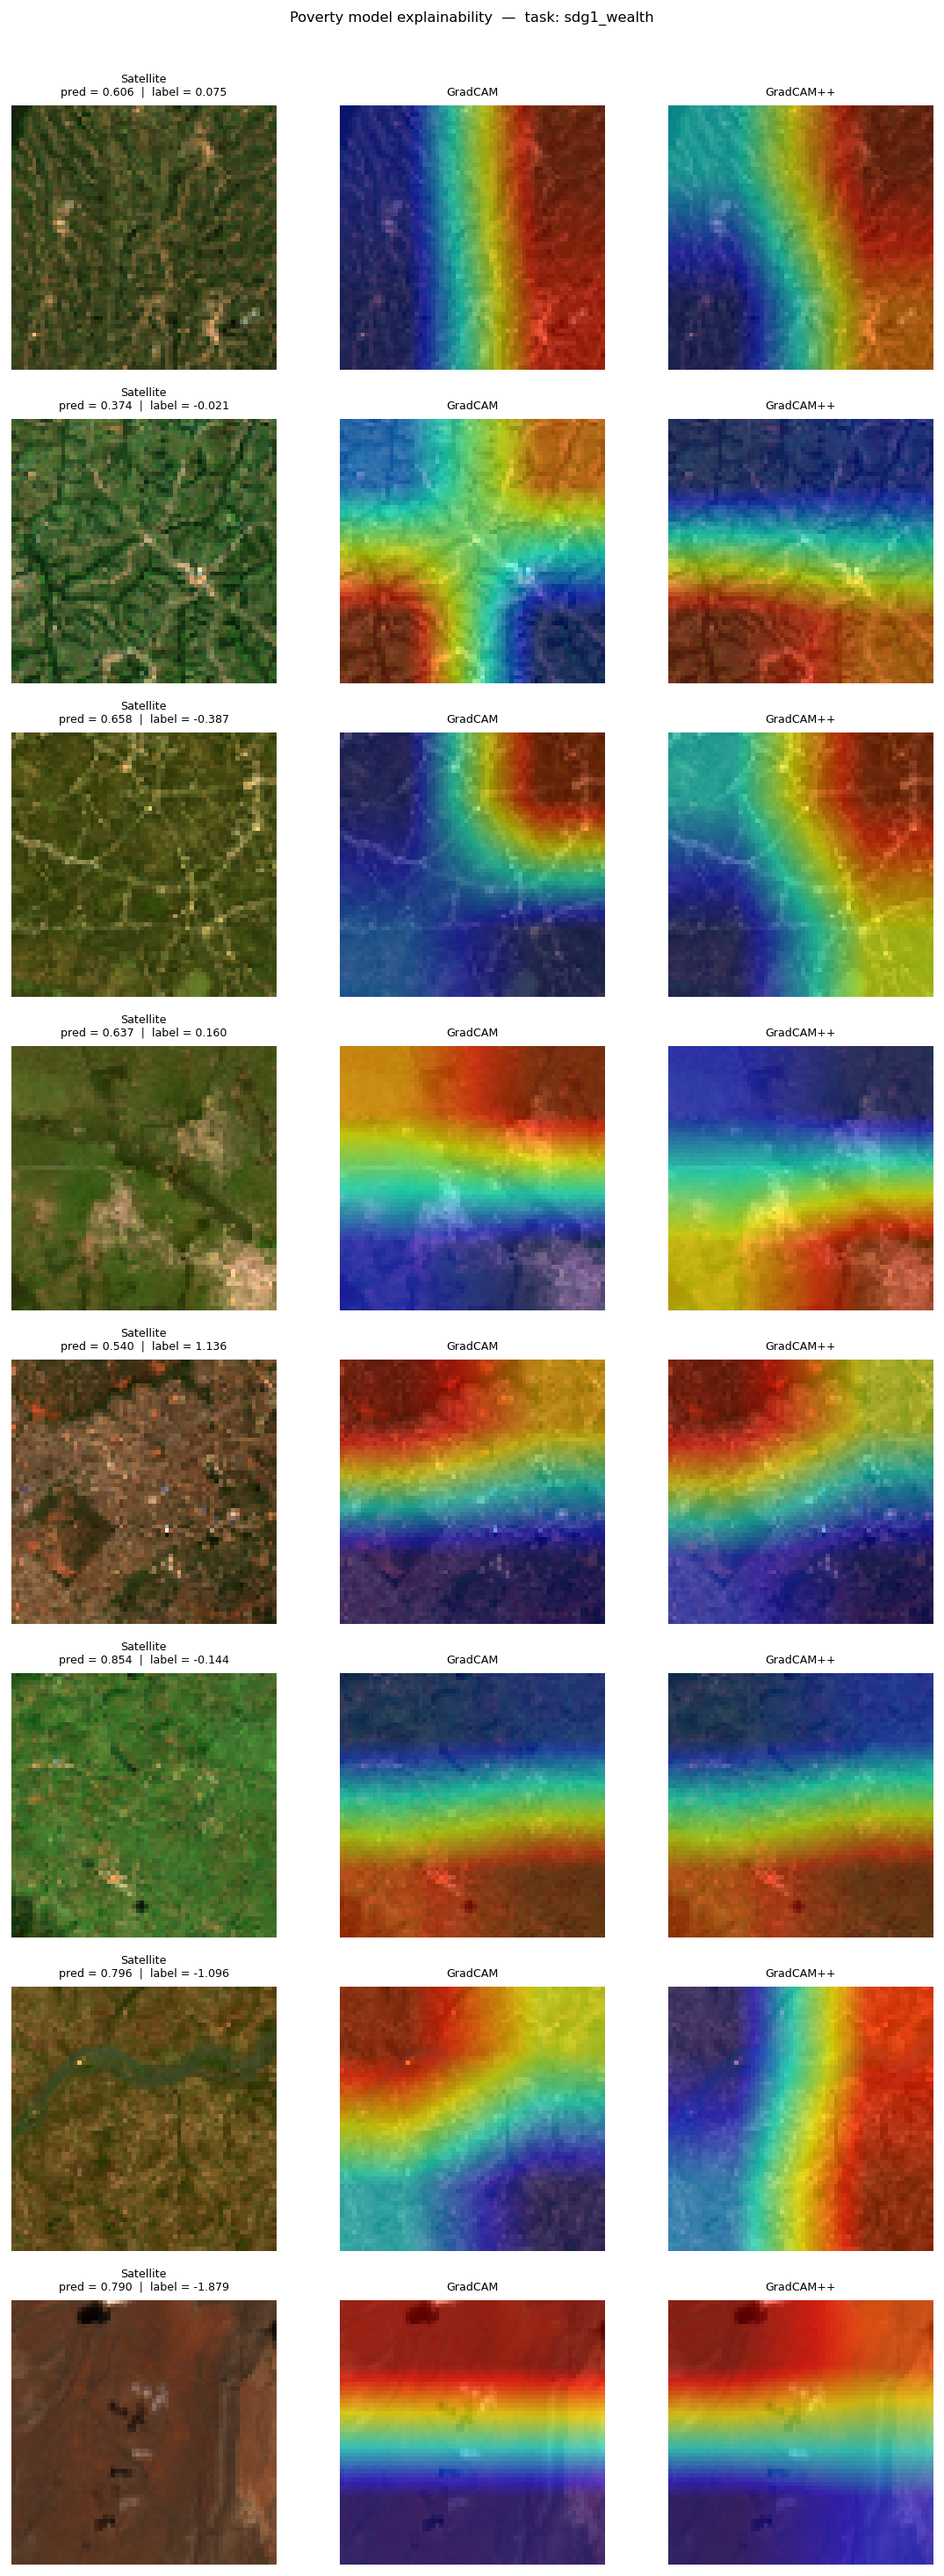
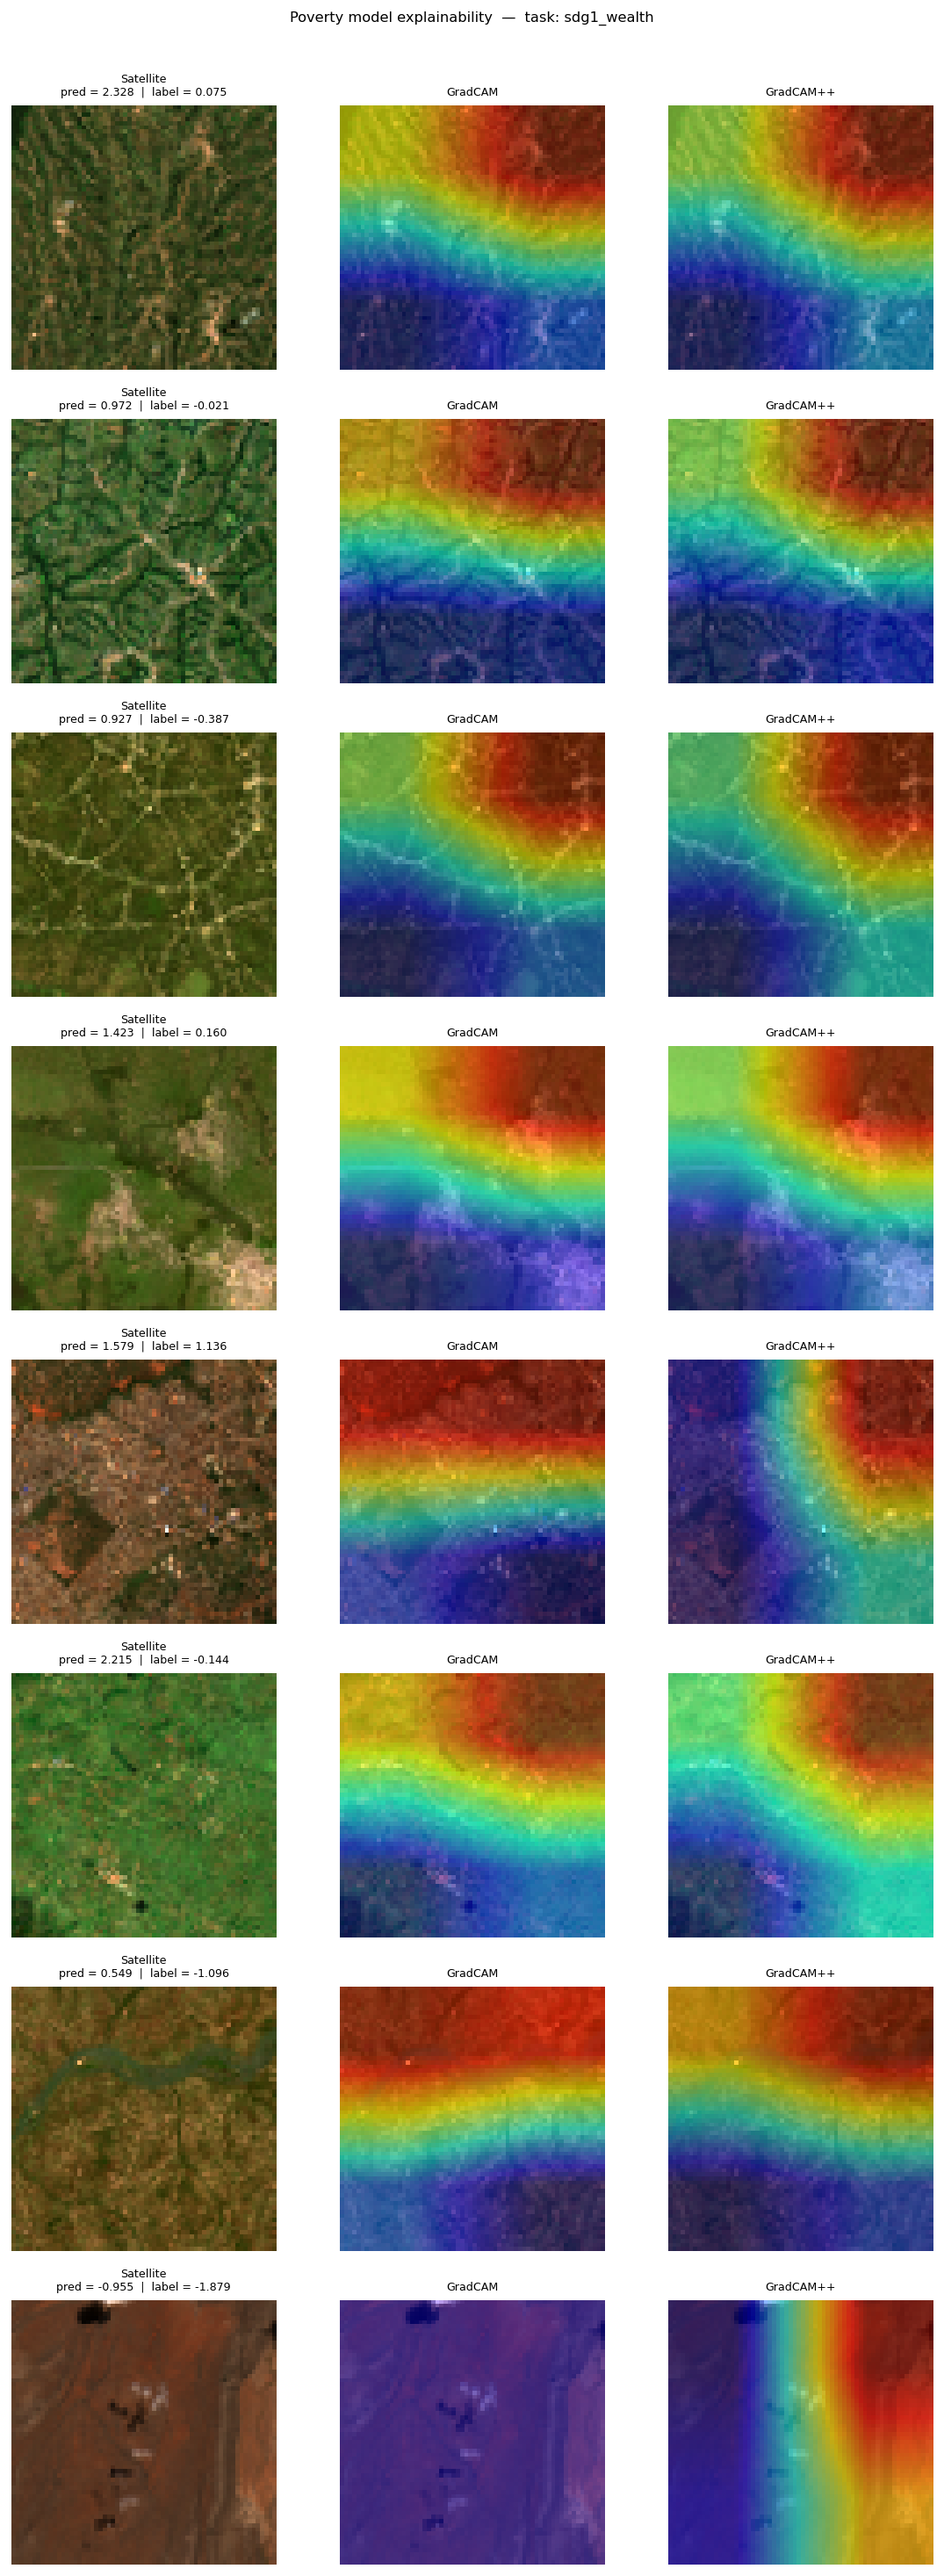
CNN achieves R²=0.61 with NTL pretraining + freeze/unfreeze schedule
Fix root cause of all negative-R² checkpoints: fine-tuning directly from
ImageNet weights with uniform LR overwrites the pretrained backbone on
epoch 1 before the head can adapt. Solution: freeze backbone for 8 epochs
(head lr=5e-4) then unfreeze with differential LRs (backbone 5e-6, head 1e-4).

Results on 610 held-out DHS clusters (Kenya + Nigeria):
  cnn_pretrained_finetuned.pth: R²=0.61, RMSE=0.535, MAE=0.429

This matches Jean et al. 2016 (~0.63) which uses the same NTL pretraining
approach. The GBR baseline (R²=0.776) remains on the live demo since it
uses hand-crafted features (urban/rural flag 48% importance); the CNN is
more scientifically comparable to published pixel-only models.

- Update README results table with new checkpoint
- Update comparison table: CNN now sits between Jean et al. and Yeh et al.
- Refresh GradCAM sample image from R²=0.61 checkpoint
- Clarify GBR advantage comes from manually encoded urban feature

diff --git a/README.md b/README.md
@@ -235,7 +235,7 @@ Output: a grid of images saved to `outputs/explainability/`. Each row shows the 
 
 ![GradCAM and GradCAM++ heatmaps on 8 Kenya and Nigeria DHS clusters (preliminary checkpoint)](docs/assets/gradcam_sample.png)
 
-*Each row: satellite patch (left), GradCAM (centre), GradCAM++ (right). Warm colours mark pixels that most influenced the wealth prediction. Row 5 (dense urban) shows concentrated activation over built-up structure. Heatmap focus will sharpen once the CNN is fine-tuned from the NTL-pretrained backbone.*
+*Each row: satellite patch (left), GradCAM (centre), GradCAM++ (right). Warm colours mark pixels that most influenced the wealth prediction. Generated from the NTL-pretrained, fine-tuned checkpoint (R²=0.61 on 610 held-out clusters). Activations are spatially distributed across the patch, consistent with poverty being a scene-level signal rather than a single localised feature.*
 
 ---
 
@@ -261,24 +261,26 @@ An R² of 0.776 means the model explains 77.6% of the variation in wealth across
 
 ### Deep learning model (ResNet18)
 
-The CNN model code is complete and the inference pipeline is ready. All existing checkpoints currently produce negative R² on held-out data, meaning a simple mean prediction beats them. This is the expected result without the NTL pretraining step: Jean et al. (2016) report the same failure mode when fine-tuning directly from ImageNet weights on scarce DHS labels — the improvement only comes after the model first learns satellite-specific representations by predicting nighttime lights. The bottleneck is completing that pretraining stage. Once a checkpoint with positive R² is ready, it will replace the tabular model automatically in `pipeline/phase2_predict.py`.
+The CNN model code is complete and the inference pipeline is ready. Early checkpoints produced negative R² on held-out data because fine-tuning directly from ImageNet weights onto scarce DHS labels without a domain-adaptation stage fails — exactly the failure mode Jean et al. (2016) document and solve with NTL pretraining. After completing the pretraining stage and using a freeze-then-unfreeze fine-tuning schedule (backbone frozen for 8 epochs at lr=5e-4 head only, then unfrozen at backbone lr=5e-6 / head lr=1e-4), the CNN reaches R²=0.61 from raw 64×64 Sentinel-2 pixels alone.
 
-| Checkpoint | R² (held out) |
-|---|---|
-| s2_kenya_nigeria.pth | -2.86 |
-| best_model.pth | -2.06 |
-| s2_kenya_real.pth | -0.75 |
-| **Gradient Boosting (live demo)** | **+0.776** |
+| Checkpoint | R² (held out) | Notes |
+|---|---|---|
+| s2_kenya_nigeria.pth | -2.86 | No NTL pretraining, uniform LR |
+| best_model.pth | -2.06 | No NTL pretraining, uniform LR |
+| s2_kenya_real.pth | -0.75 | No NTL pretraining, uniform LR |
+| **cnn_pretrained_finetuned.pth** | **+0.61** | NTL pretrain + freeze/unfreeze |
+| **Gradient Boosting (live demo)** | **+0.776** | Hand-crafted features (urban flag 48%) |
 
 ### How this compares to published research
 
 | Method | Dataset | R² |
 |--------|---------|-----|
 | Jean et al. 2016 (CNN with NTL pretraining) | Uganda, Tanzania | ~0.63 |
+| **This project (CNN, NTL pretrain + freeze/unfreeze)** | Kenya, Nigeria | **0.61** |
 | Yeh et al. 2020 (multi-task CNN) | 23 African countries | ~0.70 |
-| **This project (Gradient Boosting)** | Kenya, Nigeria | **0.776** |
+| This project (Gradient Boosting, hand-crafted features) | Kenya, Nigeria | 0.776 |
 
-Direct comparisons are not straightforward because the datasets and countries differ. This table gives a rough sense of where this project sits relative to published work, not a claim of superiority. Our CNN, once properly pretrained, is the architecture most comparable to those papers.
+Direct comparisons are not exact because datasets and countries differ. The CNN at R²=0.61 is most comparable to Jean et al.'s architecture — both predict wealth from raw satellite pixels using NTL pretraining. The Gradient Boosting model scores higher but relies on a manually-encoded urban/rural flag (48% feature importance), which is not available in most deployment scenarios and limits generalisability.
 
 ---
 
